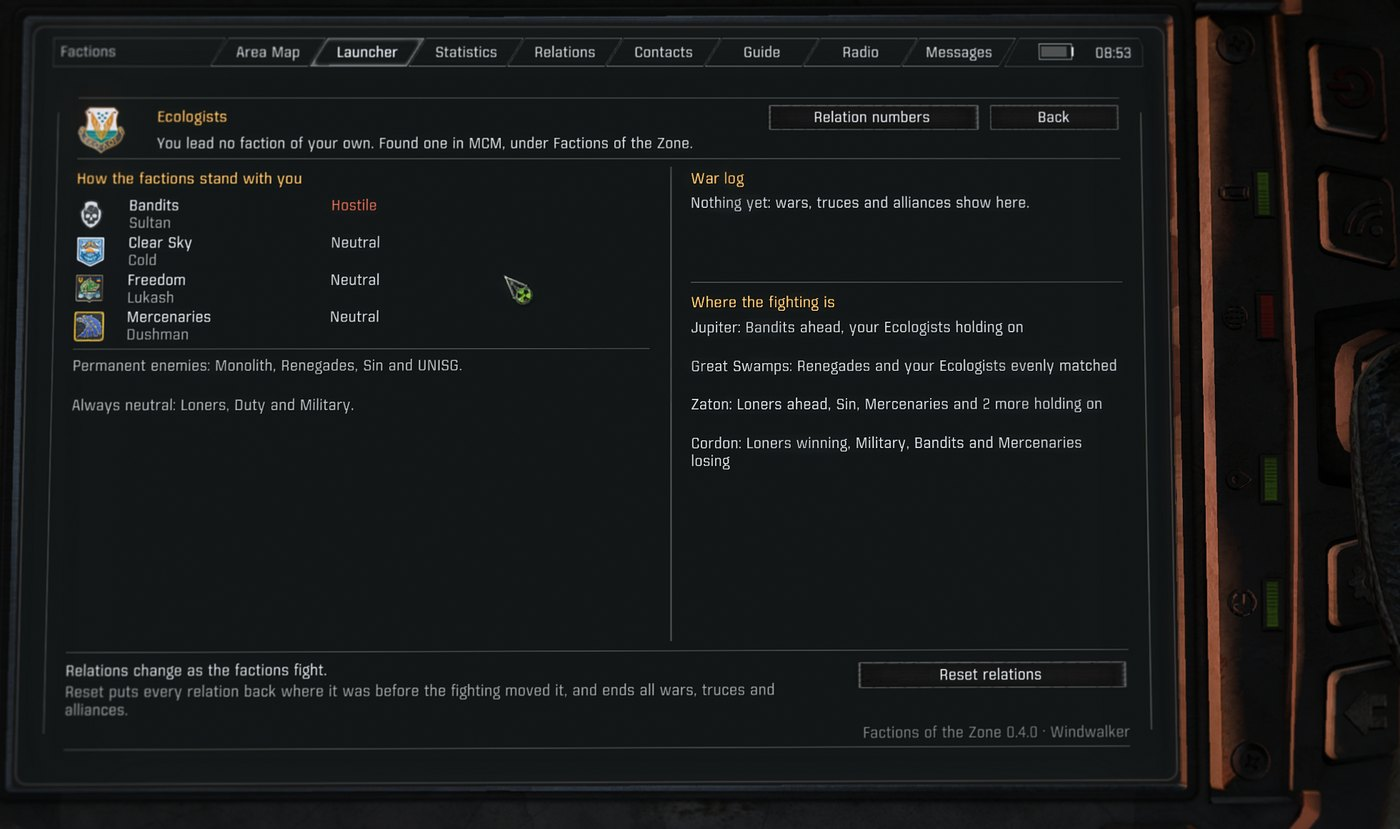
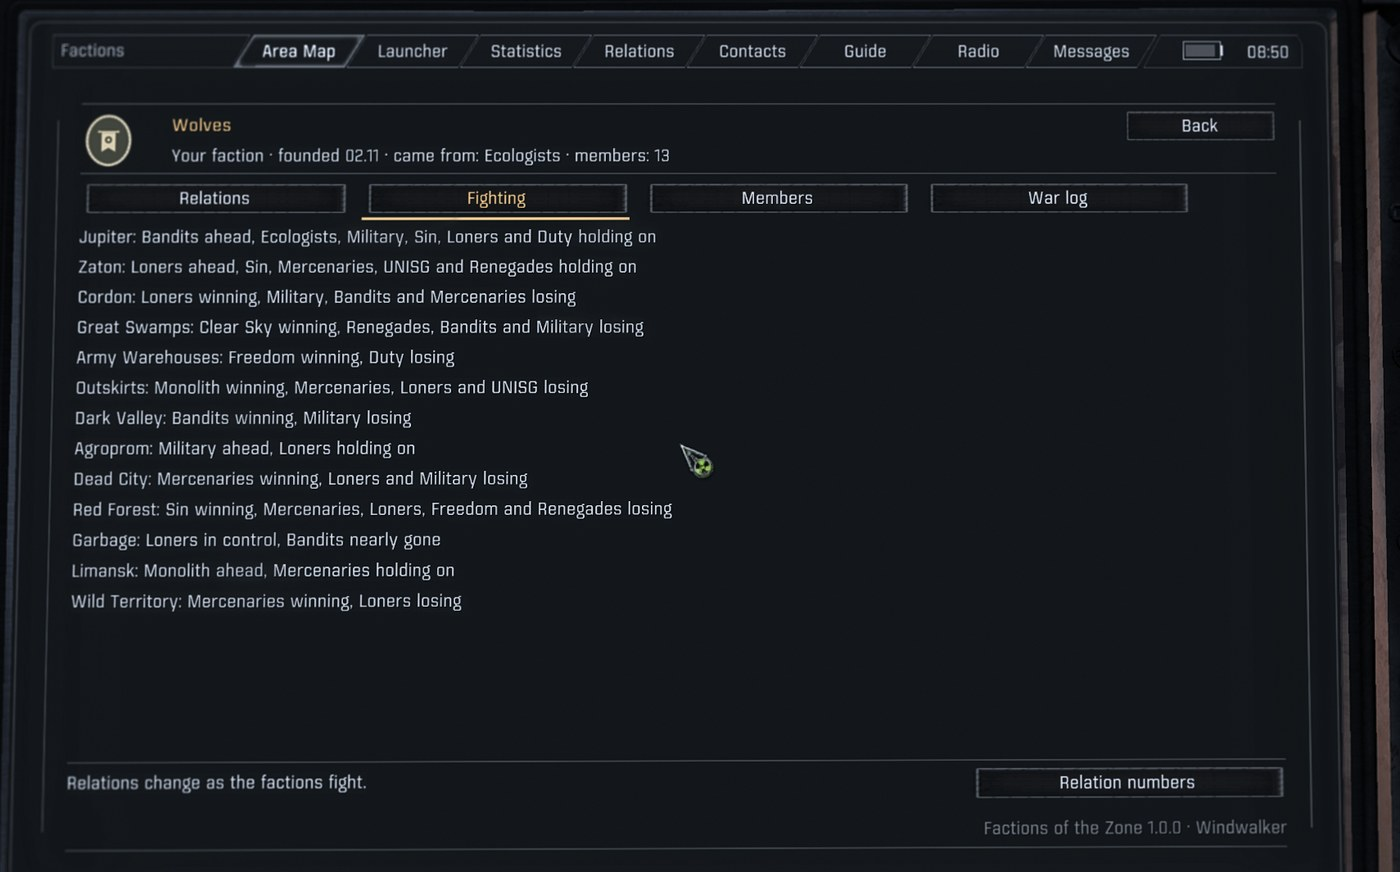
1.0.0
The first full release: everything from 0.1 to 0.6 through a deep bug
check (PR #20) and the Factions page rebuilt to list everything. VERSION
in build.py and five scripts, the README status, CHANGELOG "## 1.0.0",
the milestones, and new README screenshots of the page (run 29).

diff --git a/_tools/build.py b/_tools/build.py
@@ -22,7 +22,7 @@ HERE = os.path.dirname(os.path.abspath(__file__))
 ROOT = os.path.dirname(HERE)
 GD = os.path.join(ROOT, "gamedata")
 NAME = "Factions of the Zone"
-VERSION = "0.6.0"
+VERSION = "1.0.0"
 TESTS = ["test_census.py", "test_text.py", "test_politics.py", "test_faction.py", "test_tab.py", "test_territory.py", "test_map.py", "test_patch.py", "test_loyalty.py", "test_outposts.py", "test_bridges.py", "test_perks.py"]
 
 META = """[General]

diff --git a/docs/DESIGN.md b/docs/DESIGN.md
@@ -897,8 +897,9 @@ From the Homestead thread on Discord (June to October 2026), asks that land on F
    surrender or come over to you (section 8).
 6. **0.6.0, faction perks** (section 9): a small perk from each faction your members came from,
    growing with them, their ranks and their nearness, and the footprint that draws their enemies.
-7. **Partners.** Seasons, Homestead's hooks, Capture the Zone.
-8. **1.0.0.**
+7. **1.0.0** (2026-11-07): a deep bug check of everything above, and the Factions page rebuilt
+   into subpages that list everything; Reset relations moved to MCM.
+8. **Partners.** Seasons, Homestead's hooks, Capture the Zone.
 
 ## Later
 

diff --git a/README.md b/README.md
@@ -12,7 +12,7 @@ the factions fight over the Zone around your story, not instead of it.
 
 ## Status
 
-0.6.0 is the latest release, and work goes on. The plan is in [docs/DESIGN.md](docs/DESIGN.md).
+1.0.0 is the latest release, and work goes on. The plan is in [docs/DESIGN.md](docs/DESIGN.md).
 
 ## How it plays
 

diff --git a/CHANGELOG.md b/CHANGELOG.md
@@ -1,6 +1,10 @@
 # Changelog
 
-## Unreleased
+## 1.0.0 — 2026-11-07
+
+The first full release: everything 0.1 to 0.6 built, checked over in a deep bug check,
+and the Factions page rebuilt to list everything. Install it over 0.6.0; saves carry on as they
+are. Reset relations is now in MCM.
 
 ### Changed
 
